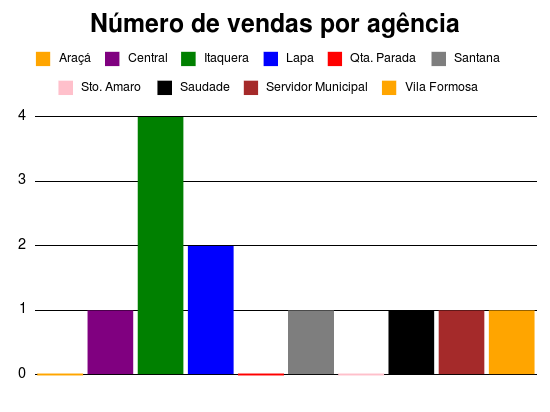
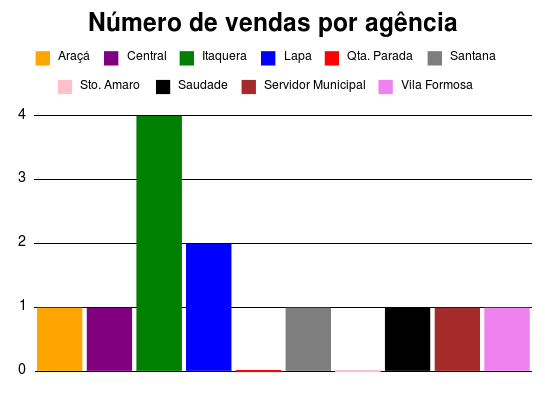
Mudancas Relatorios

diff --git a/app/models/dashboard.rb b/app/models/dashboard.rb
@@ -1,29 +1,29 @@
 class Dashboard < ActiveRecord::Base
 	
-	def graficoAgencias
+	def graficoAgencias(intervalo)
 		@agency = Agency.all
-		g = Gruff::Bar.new(550)
+		g = Gruff::Bar.new(545)
 		g.legend_font_size = 18
 		g.title = "Número de vendas por agência"
 		g.theme = { # Declare a custom theme
-			:colors => %w(orange purple green blue red gray pink black brown), # colors can be described on hex values (#0f0f0f)
+			:colors => %w(orange purple green blue red gray pink black brown violet), # colors can be described on hex values (#0f0f0f)
 			:marker_color => 'black', # The horizontal lines color
 			:background_colors => %w(white white) # you can use instead: :background_image => ‘some_image.png’
 		}
 		@agency.each do |a|
-			g.data a.name, Gather.where(agency: a).count
+			g.data a.name, Gather.where(["agency_id = ?", a.id]).count
 		end
 		g.write("app/assets/images/charts/barra_agencias.png")
 	end
 
-	def graficoUrnas
-		@coffin = Coffin.all
-		g = Gruff::Pie.new(550)
-
+	def graficoUrnas(intervalo)
+		@coffin = Gather.group(:coffin_id).order('count_id DESC').limit(5).count(:id)
+		g = Gruff::Pie.new(545)
 		@coffin.each do |c|
-			g.data c.name, Gather.where(coffin: c).count unless Gather.where(coffin: c).count == 0
-		end
-		g.sort = true	
+			if c[0] != nil
+				g.data Coffin.find(c[0]).name, c[1]
+			end
+		end		
 
 		g.legend_font_size = 18
 		g.title = "Urnas mais vendidas"
@@ -33,26 +33,47 @@ class Dashboard < ActiveRecord::Base
 			:background_colors => %w(white white) # you can use instead: :background_image => ‘some_image.png’
 		}
 		g.title_margin = 0
-		#g.hide_legend = true
-
-		
+		#g.hide_legend = true		
 		g.write("app/assets/images/charts/pizza_urnas.png")
 	end
 
-	def graficoVelorios
-		@funeral = Funeral.all
-		g = Gruff::Bar.new(550)
+	def graficoCemiterios(intervalo)
+		@cemetery = Gather.group(:cemetery_id).order('count_id DESC').limit(5).count(:id)
+		g = Gruff::Pie.new(545)
+		@cemetery.each do |c|
+			if c[0] != nil
+				g.data Cemetery.find(c[0]).name, c[1]
+			end
+		end		
+
 		g.legend_font_size = 18
-		g.title = "Velórios mais reservados"
+		g.title = "Cemitérios mais contratados"
 		g.theme = { # Declare a custom theme
 			:colors => %w(orange purple green blue red gray pink black brown), # colors can be described on hex values (#0f0f0f)
 			:marker_color => 'black', # The horizontal lines color
 			:background_colors => %w(white white) # you can use instead: :background_image => ‘some_image.png’
 		}
-		
+		g.title_margin = 0
+		#g.hide_legend = true		
+		g.write("app/assets/images/charts/pizza_cemiterios.png")
+	end
+
+	def graficoVelorios(intervalo)
+		@funeral = Gather.group(:funeral_id).order('count_id DESC').all.count(:id)
+		g = Gruff::Bar.new(545)
+		g.legend_font_size = 18
+		 g.y_axis_increment = 1
+		g.title = "Número de reservas por velório"
+		g.theme = { # Declare a custom theme
+			:colors => %w(orange purple green blue red gray pink black brown violet), # colors can be described on hex values (#0f0f0f)
+			:marker_color => 'black', # The horizontal lines color
+			:background_colors => %w(white white) # you can use instead: :background_image => ‘some_image.png’
+		}		
 		
 		@funeral.each do |f|
-			g.data f.name, Gather.where(funeral: f).count
+			if f[0] != nil
+				g.data Funeral.find(f[0]).name, f[1]
+			end
 		end
 		g.sort = true
 		g.write("app/assets/images/charts/linha_velorio.png")

diff --git a/app/controllers/gathers_controller.rb b/app/controllers/gathers_controller.rb
@@ -21,7 +21,7 @@ class GathersController < ApplicationController
   end
   
   def create
-    @gather = Gather.new(params.require(:gather).permit(:ncf, :agency_id, :coffin_id, :deceased, :placeofdeath_id, :funeral_id, :cemetery_id, :healthcare))
+    @gather = Gather.new(params.require(:gather).permit(:ncf, :agency_id, :coffin_id, :deceased, :placeofdeath_id, :funeral_id, :cemetery_id, :healthcare, :outside))
     
     if @gather.save
       redirect_to @gather

diff --git a/app/controllers/dashboard_controller.rb b/app/controllers/dashboard_controller.rb
@@ -2,8 +2,10 @@ class DashboardController < ApplicationController
 	def show
 		@dash = Dashboard.new
 		@gather = Gather.all
-		@dash.graficoAgencias
-		@dash.graficoUrnas
-		@dash.graficoVelorios
+		@intervalo = params[:interval]
+		@dash.graficoAgencias(@intervalo)
+		@dash.graficoUrnas(@intervalo)
+		@dash.graficoVelorios(@intervalo)
+		@dash.graficoCemiterios(@intervalo)
 	end
 end
